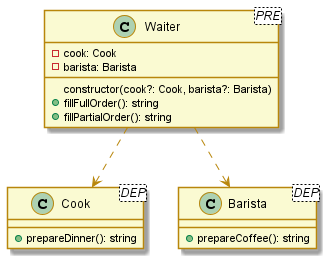
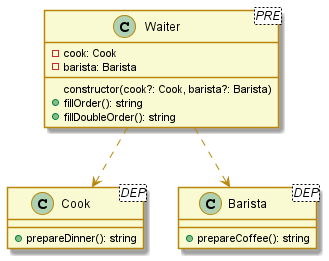
Update Facade pattern

Changed region(s): [[0.2128, 0.3678, 0.5471, 0.4904]]

diff --git a/src/app/app.component.ts b/src/app/app.component.ts
@@ -141,12 +141,12 @@ export class AppComponent {
 
   private static presentFacade(): void {
     const firstWaiter = new Waiter();
-    console.warn(firstWaiter.fillFullOrder()); // "dinner, coffee"
+    console.warn(firstWaiter.fillOrder()); // "dinner, coffee"
 
     const cook = new Cook();
     const barista = new Barista();
     const secondWaiter = new Waiter(cook, barista);
-    console.warn(secondWaiter.fillPartialOrder()); // "coffee"
+    console.warn(secondWaiter.fillDoubleOrder()); // "dinner x2, coffee x2"
   }
 
   private static presentFactoryMethod(): void {

diff --git a/src/app/structural/facade/waiter.class.ts b/src/app/structural/facade/waiter.class.ts
@@ -7,13 +7,15 @@ export class Waiter {
     this.barista = barista ?? new Barista();
   }
 
-  public fillFullOrder(): string {
+  public fillOrder(): string {
     const dinner = this.cook.prepareDinner();
     const coffee = this.barista.prepareCoffee();
     return `${dinner}, ${coffee}`;
   }
 
-  public fillPartialOrder(): string {
-    return this.barista.prepareCoffee();
+  public fillDoubleOrder(): string {
+    const dinner = this.cook.prepareDinner();
+    const coffee = this.barista.prepareCoffee();
+    return `${dinner} x2, ${coffee} x2`;
   }
 }

diff --git a/README.md b/README.md
@@ -7,8 +7,8 @@
 | [Factory method](#factory-method) | [Composite](#composite) | [Iterator](#iterator) |
 | [Fluent interface](#fluent-interface) | [Decorator](#decorator) | [Mediator](#mediator) |
 | [Singleton](#singleton) | [Facade](#facade) | [Memento](#memento) |
-| | [Flyweight](#flyweight) | [Observer](#observer) |
-| | [Proxy](#proxy) | [State](#state) |
+| | [Proxy](#proxy) | [Observer](#observer) |
+| | | [State](#state) |
 | | | [Strategy](#strategy) |
 | | | [Template method](#template-method) |
 | | | [Visitor](#visitor) |
@@ -200,18 +200,18 @@ Facade allows you to separate out external logic from complex logic.
 
 #### UML diagram:
 
-![facade](https://user-images.githubusercontent.com/21959354/119240865-f0681f00-bb52-11eb-90dc-d66673f2d1dd.png)
+![facade](https://user-images.githubusercontent.com/21959354/119241025-05917d80-bb54-11eb-9751-a1a7ad90f2db.png)
 
 #### Client code:
 
 ```ts
-    const firstWaiter = new Waiter();
-console.warn(firstWaiter.fillFullOrder()); // "dinner, coffee"
+const firstWaiter = new Waiter();
+console.warn(firstWaiter.fillOrder()); // "dinner, coffee"
 
 const cook = new Cook();
 const barista = new Barista();
 const secondWaiter = new Waiter(cook, barista);
-console.warn(secondWaiter.fillPartialOrder()); // "coffee"
+console.warn(secondWaiter.fillDoubleOrder()); // "dinner x2, coffee x2"
 ```
 
 ## <a name="factory-method">Factory method</a> [creational] [&#8657;](#list)
@@ -254,20 +254,6 @@ const deluxeAlbum = new Label(album).withTracks(['Not Afraid', 'On Fire', 'So Ba
 
 console.log(album); // Album {name: "Recovery", tracks: ["Not Afraid", "On Fire"]}
 console.log(deluxeAlbum); // Album {name: "Recovery", tracks: ["Not Afraid", "On Fire", "So Bad"]}
-```
-
-## <a name="flyweight">Flyweight</a> [structural] [&#8657;](#list)
-
-None
-
-#### UML diagram:
-
-![flyweight](localhost:4200)
-
-#### Client code:
-
-```ts
-
 ```
 
 ## <a name="iterator">Iterator</a> [behavioral] [&#8657;](#list)
